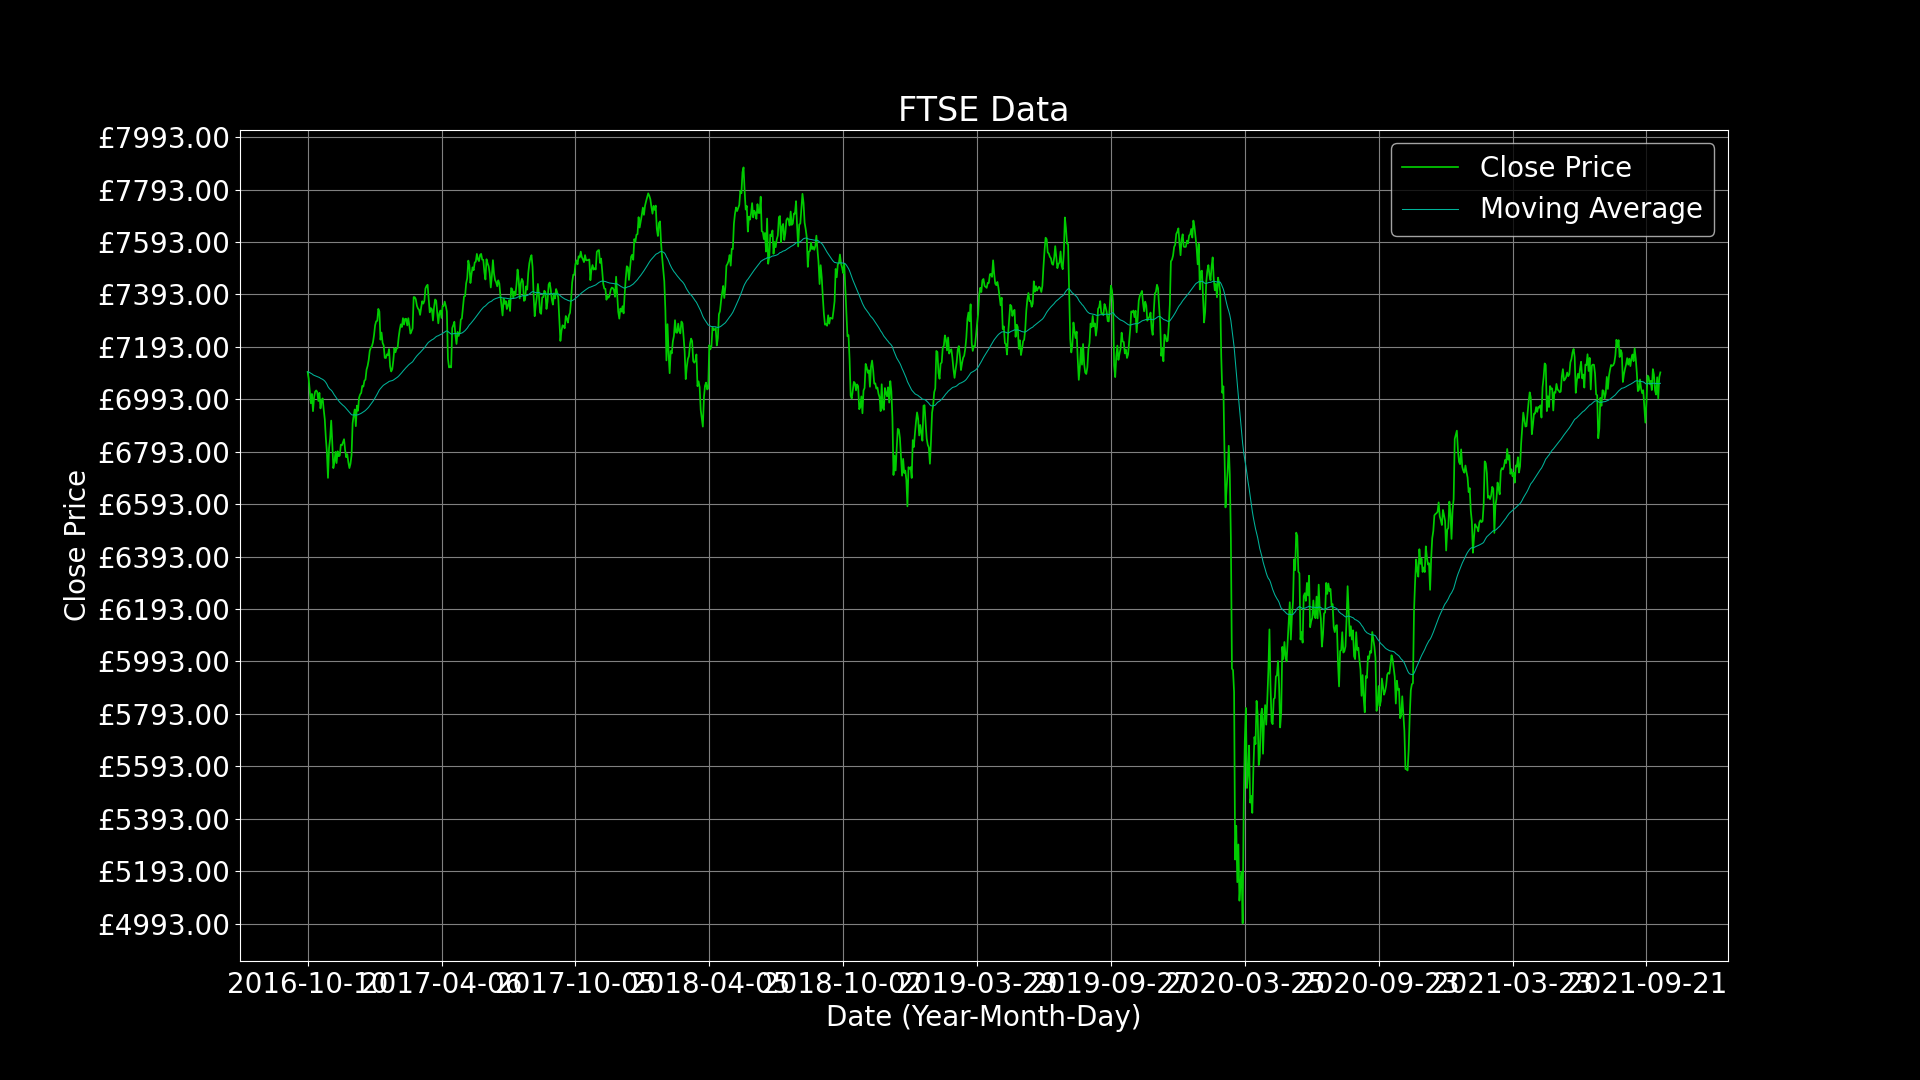
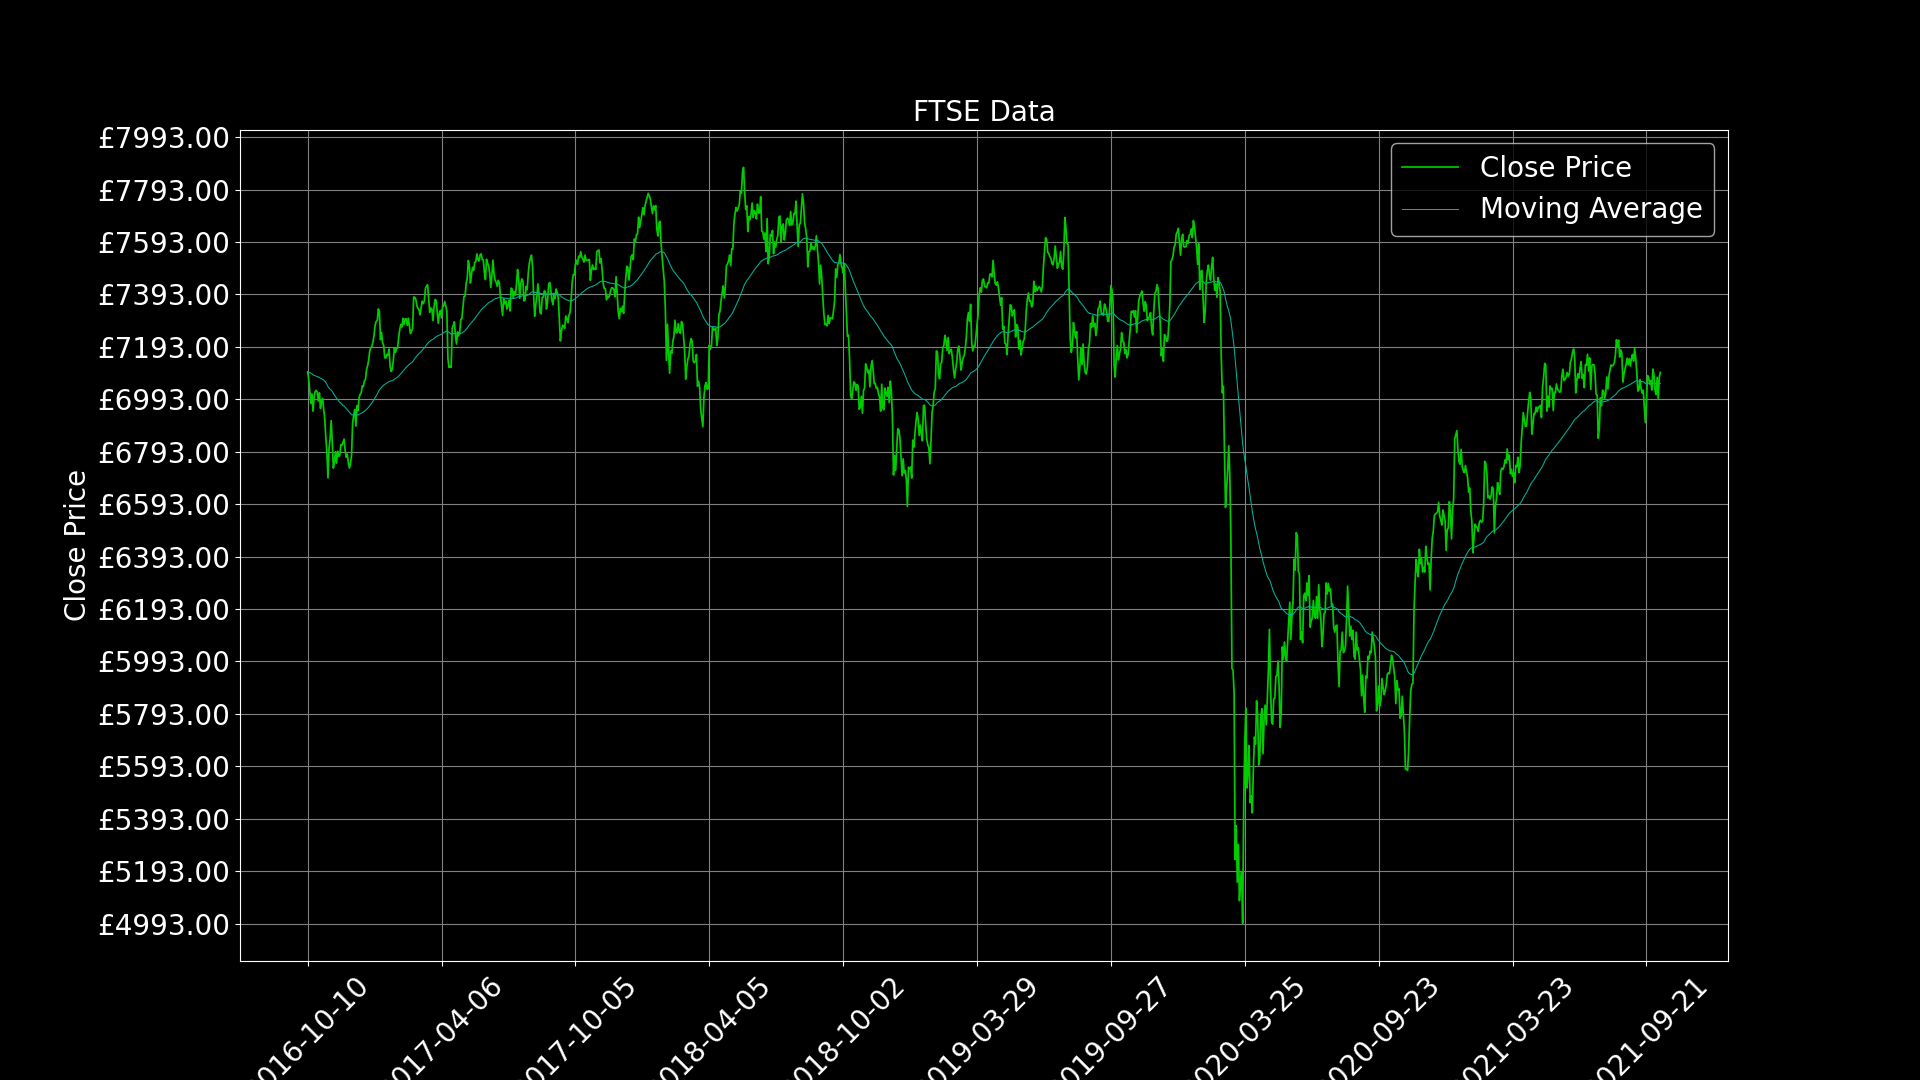
Almost fixed part_c rotation

diff --git a/part_c.py b/part_c.py
@@ -1,7 +1,7 @@
 # Author: Lee Taylor, ST Number: 190211479
 from imports import *
 
-## Create house data frame
+# Create house data frame
 ftsedf = pd.read_csv("Data/ftse_data_wrangled.csv")
 
 ftsedf.index = ftsedf.date
@@ -18,16 +18,18 @@ ftse5y = pd.DataFrame(ftsedf['2016-10-08':])
 ftse2008 = pd.DataFrame(ftsedf['2008-03-07':])
 ftsemax = ftsedf
 
+
 def calc_moving_avg(period=1, alpha=0.5, c=ftse2008):
-  # Calculate moving average
-  c    = c['Close']
-  ns   = pd.Series(c)
-  ma   = round(ns.ewm(
-      alpha=alpha, adjust=False).mean(), period)
-  mali = ma.tolist()
-  # Convert list-ma to type <class 'pandas.core.series.Series'>
-  # ma = pd.core.series.Series(ma)
-  return mali
+    # Calculate moving average
+    c = c['Close']
+    ns = pd.Series(c)
+    ma = round(ns.ewm(
+        alpha=alpha, adjust=False).mean(), period)
+    mali = ma.tolist()
+    # Convert list-ma to type <class 'pandas.core.series.Series'>
+    # ma = pd.core.series.Series(ma)
+    return mali
+
 
 def part_c(ax1, fig, show=True, save=False):
     plt.style.use('dark_background')
@@ -36,22 +38,32 @@ def part_c(ax1, fig, show=True, save=False):
     ax1.set_facecolor('black')
     # Shorten variable names
     d = ftse5y['date']  # d = Dates
-    c = ftse5y['Close'] # c = Close prices
+    c = ftse5y['Close']  # c = Close prices
     # Calculate moving average
     ma = calc_moving_avg(1, 0.025, ftse5y)
     # Plot data
     ax1.plot(d, c, linewidth=1.25, color=(0, 0.8, 0, 1.0), label='Close Price')
     ax1.plot(d, ma, linewidth=0.75, color=(0.0, 0.7, 0.6, 1.0), label='Moving Average')
     # Title and Axis labels
-    ax1.set_title("FTSE Data")
+    ax1.set_title("FTSE Data", size=20)
     ax1.set_xlabel("Date (Year-Month-Day)")
     ax1.set_ylabel("Close Price")
     # Axis tickers and labels
+    ax1.set_xticks(ticks=[x for x in range(0, len(d), 125)])
+    ax1.tick_params(labelrotation=45)
     ax1.set_yticks(ticks=[y for y in range(int(min(c)), int(max(c)) + 200, 200)],
-               labels=["£" + str(x) + ".00" for x in range(int(min(c)),
-                                                           int(max(c)) + 200, 200)])
-    ax1.set_xticks(ticks=[x for x in range(0, len(d), 125)], rotation=90)
+                   labels=["£" + str(x) + ".00" for x in range(int(min(c)),
+                                                               int(max(c)) + 200, 200)],
+                   rotation=0)
+
     # Render chart with legend
     ax1.legend()
     if save: plt.savefig('Images/part_c.png')
     if show: plt.show()
+
+
+if __name__ == '__main__':
+    plt.rcParams.update({'font.size': 20})
+    fig_, ax1_ = plt.subplots(1, 1, figsize=(19.2, 10.8),
+                              facecolor=(0.90, 0.90, 0.90, 1))
+    part_c(ax1_, fig_, False, True)

diff --git a/part_a.py b/part_a.py
@@ -48,7 +48,7 @@ nd = newcastle_data
 def part_a(ax1, ax2, show=True, save=False):
     ## Axis 1 - London Data
     ax1.grid(axis='y', color='black')
-    ax1.bar(ld['Property_Type'], ld['Avg_Price'], color='red', )
+    ax1.bar(ld['Property_Type'], ld['Avg_Price'], color='red')
     ax1.set_title("London", color='red')
     ax1.tick_params('x', labelrotation=0)
     ax1.set_yticks(ticks=[x*200_000 for x in range(6)])
@@ -66,11 +66,12 @@ def part_a(ax1, ax2, show=True, save=False):
     ax2.set_xlabel("Property Types")
     ax2.set_ylabel("Average Prices £")
     ax2.set_ylim(0, 1_000_000)
-
+    # Arguments
     if save: plt.savefig('Images/part_a.png')
     if show: plt.show()
 
 
 if __name__ == '__main__':
+    plt.rcParams.update({'font.size': 20})
     fig, (ax1, ax2) = plt.subplots(1, 2, figsize=(19.2, 10.8))
-
+    part_a(ax1, ax2, False, True)

diff --git a/main.py b/main.py
@@ -44,7 +44,6 @@ def collage(showplt=True, savepltimg=False):
 
 if __name__ == '__main__':
     collage(showplt=False, savepltimg=True)
-
     # Todo: Rotate part_c x-labels
     # Todo: Write short summaries for each plot
     # Todo: part_b highlight one or two areas of interest
